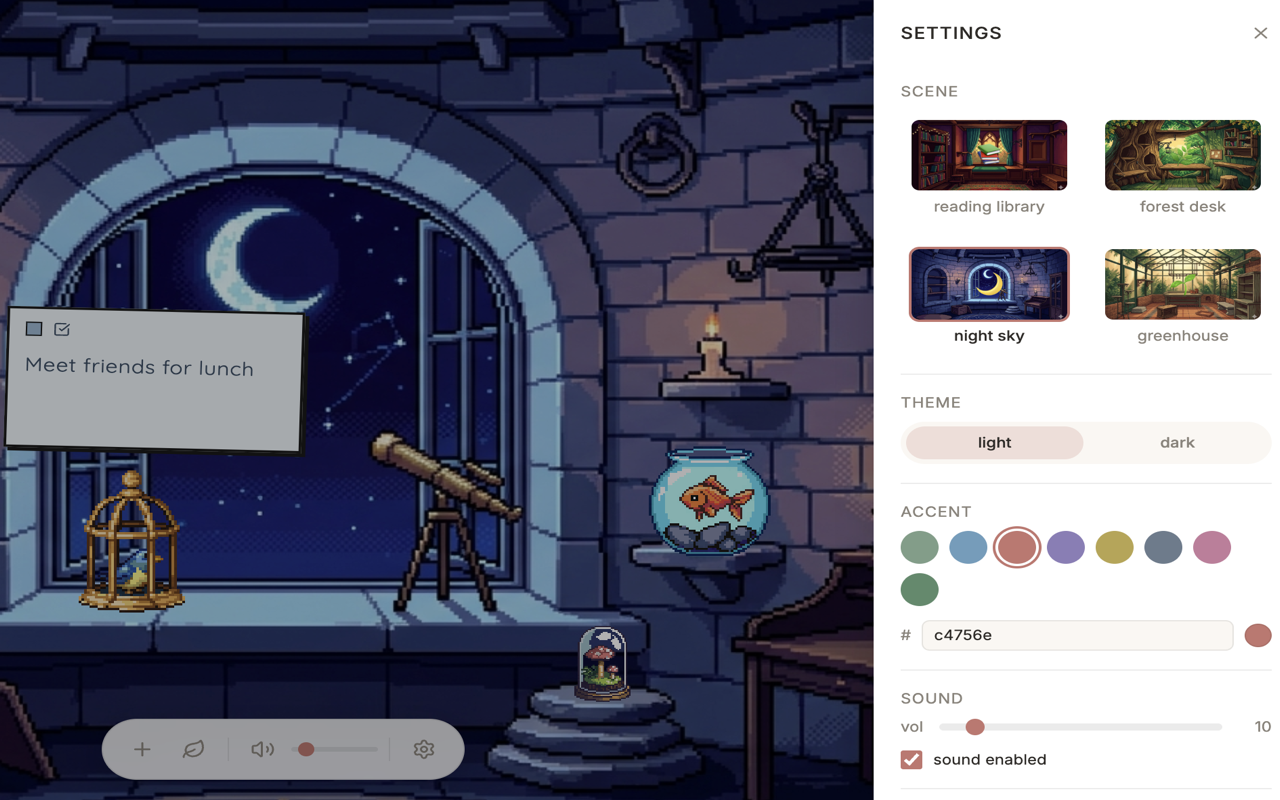
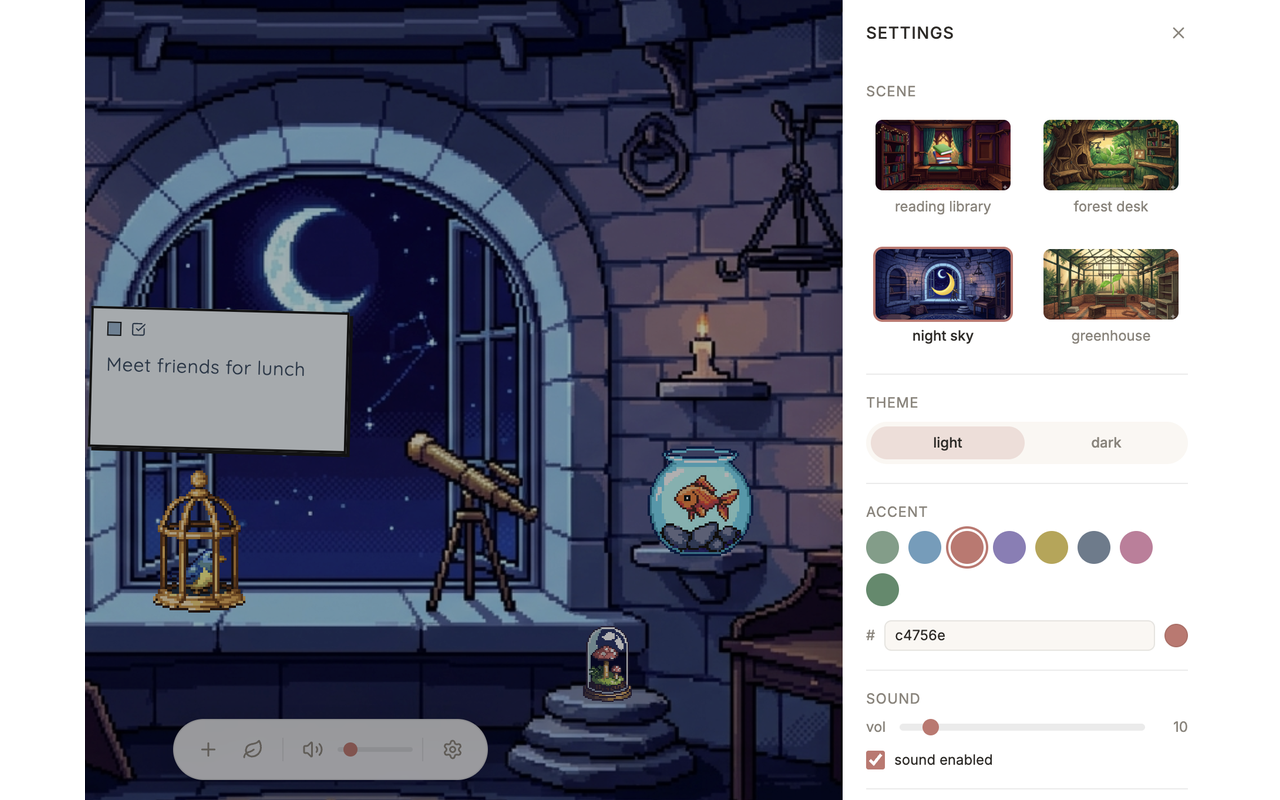
chore: optimize promo images and add resize script

diff --git a/scripts/resize-promo.py b/scripts/resize-promo.py
@@ -1,0 +1,29 @@
+"""Resize promo images by fitting inside target dimensions with white padding."""
+from PIL import Image
+import os
+
+PROMO_DIR = "./promo"
+
+def fit_with_padding(src_path, out_path, target_w, target_h):
+    img = Image.open(src_path)
+    img.thumbnail((target_w, target_h), Image.LANCZOS)
+    canvas = Image.new("RGB", (target_w, target_h), (255, 255, 255))
+    x = (target_w - img.width) // 2
+    y = (target_h - img.height) // 2
+    canvas.paste(img, (x, y))
+    canvas.save(out_path)
+    print(f"  {out_path} ({target_w}x{target_h})")
+
+jobs = [
+    ("forest-desk-original.png", "screenshot-1.png", 1280, 800),
+    ("night-sky-settings-original.png", "screenshot-2.png", 1280, 800),
+    ("decoration-picker-original.png", "screenshot-3.png", 1280, 800),
+    ("forest-desk-original.png", "small-promo-440x280.png", 440, 280),
+    ("night-sky-settings-original.png", "large-promo-920x680.png", 920, 680),
+    ("forest-desk-original.png", "marquee-1400x560.png", 1400, 560),
+]
+
+for src, out, w, h in jobs:
+    fit_with_padding(os.path.join(PROMO_DIR, src), os.path.join(PROMO_DIR, out), w, h)
+
+print("Done")
